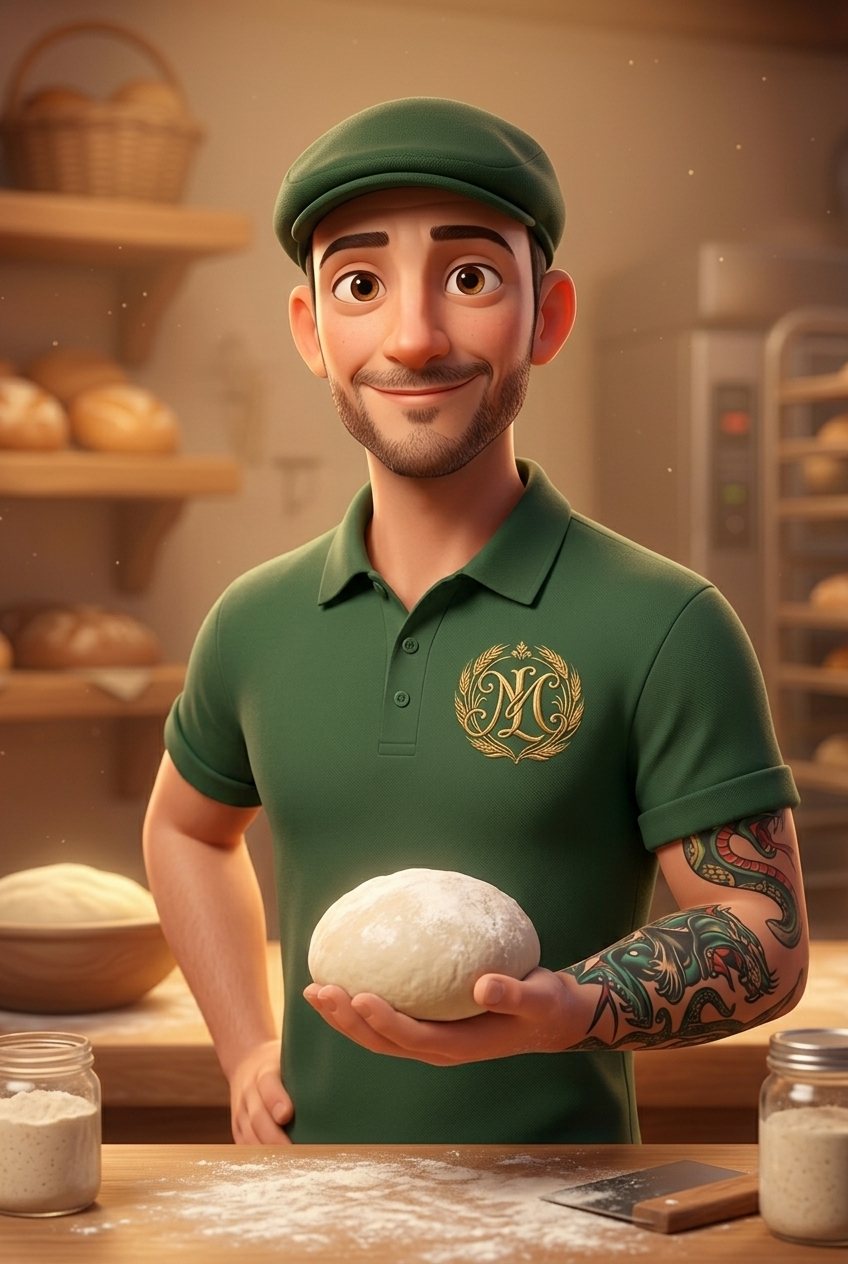
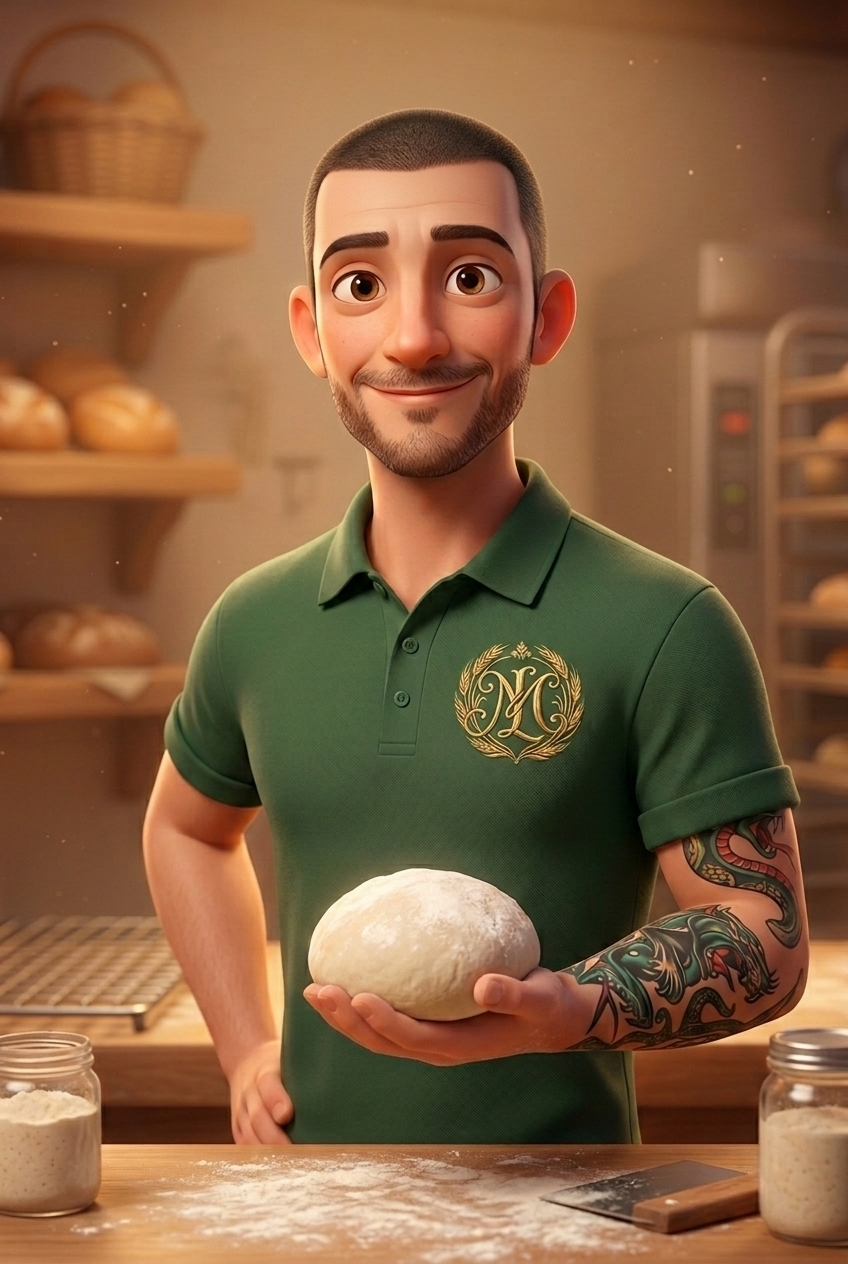
Fatto entrambe:
**Menu Ricette → vetrina a griglia** (2 per riga) con foto, raggruppata per categoria (Basi & Lieviti, Pane, ecc.). Via i chip e le fisarmoniche: resta solo la ricerca in alto. Ogni card ha la **strisciolina tricolore + bandierina del Paese d'origine**. ✅

**Avatar Home** rigenerato: **senza cappello** (capelli corti), col tuo **vero tatuaggio** (il drago marino verde) e la **Knolle** (palla d'impasto) in mano. ✅

Ho notato che alcune ricette delle **Basi & Lieviti** (Lievito Madre, LiCoLi, Poolish, Kochstück, Miglioratore) non hanno una foto, quindi in vetrina restano con il riquadro vuoto. Vuoi che generi delle **foto** anche per queste 5-6 basi così la vetrina è tutta piena?

⚠ Per la produzione **mikilab.de serve il Redeploy**.

Changed region(s): [[0.3066, 0.0617, 0.6745, 0.216], [0.0, 0.6479, 0.2453, 0.8331], [0.5519, 0.5245, 0.5825, 0.5862]]

diff --git a/frontend/src/components/RecipeList.jsx b/frontend/src/components/RecipeList.jsx
@@ -201,7 +201,7 @@ export default function RecipeList({ collectionName, heroImage, heroTitle, heroS
         ];
         const isMikilab = collectionName === "mikilab";
 
-        const Row = (r, i) => (
+        const Card = (r, i) => (
           <motion.button
             key={r.id}
             initial={{ opacity: 0, y: 6 }}
@@ -209,36 +209,35 @@ export default function RecipeList({ collectionName, heroImage, heroTitle, heroS
             transition={{ delay: Math.min(i * 0.015, 0.2) }}
             onClick={() => setViewing(r)}
             data-testid={`recipe-row-${r.id}`}
-            className="relative overflow-hidden w-full text-left bg-white dark:bg-[#232A31] border border-[#D7E1DB] dark:border-[#38424B] rounded-2xl p-4 shadow-sm active:scale-[0.99] hover:border-[#6E8CA0]/60 transition-all flex items-center gap-3"
+            className="relative overflow-hidden text-left bg-white dark:bg-[#232A31] border border-[#D7E1DB] dark:border-[#38424B] rounded-2xl shadow-sm active:scale-[0.98] hover:border-[#6E8CA0]/60 transition-all flex flex-col"
           >
+            {/* strisciolina tricolore del Paese d'origine */}
             {countryColors(r.origin) && (
-              <div aria-hidden className="absolute top-0 left-0 right-0 flex h-1.5">
+              <div aria-hidden className="absolute top-0 left-0 right-0 z-10 flex h-1.5">
                 {countryColors(r.origin).map((c, k) => <div key={k} className="flex-1" style={{ background: c }} />)}
               </div>
             )}
-            {r.image_url && (r.image_url.startsWith("http") || recipeCategory(r).key === "panettoni") && (
-              <img src={r.image_url} alt="" loading="lazy" onError={(e) => { e.currentTarget.style.display = "none"; }} className="w-14 h-14 rounded-xl object-cover shrink-0 border border-[#D7E1DB] dark:border-[#38424B]" />
-            )}
-            <div className="min-w-0 flex-1">
-              <h3 className="font-display text-lg font-semibold text-[#2B303B] dark:text-[#EAF0EC] leading-tight line-clamp-3">
-                {r.origin && flagEmoji(r.origin) && <span className="mr-1" title={countryName(r.origin)}>{flagEmoji(r.origin)}</span>}
+            {/* foto vetrina */}
+            <div className="relative w-full aspect-[4/3] bg-[#EAF0EC] dark:bg-[#1F252B]">
+              {r.image_url
+                ? <img src={r.image_url} alt="" loading="lazy" onError={(e) => { e.currentTarget.style.display = "none"; }} className="w-full h-full object-cover" />
+                : <div className="w-full h-full flex items-center justify-center"><ChefHat className="w-9 h-9 text-[#B34A26]/40" /></div>}
+              {r.origin && flagEmoji(r.origin) && (
+                <span title={countryName(r.origin)} className="absolute top-2.5 right-2 text-xl drop-shadow-md">{flagEmoji(r.origin)}</span>
+              )}
+              {r.locked && (
+                <span className="absolute bottom-2 right-2 bg-white/90 dark:bg-[#232A31]/90 rounded-full p-1.5 shadow">
+                  <Lock data-testid={`recipe-locked-${r.id}`} className="w-3.5 h-3.5 text-[#6E8CA0]" />
+                </span>
+              )}
+            </div>
+            {/* testo */}
+            <div className="p-3 min-w-0 flex-1">
+              <h3 className="font-display text-sm font-semibold text-[#2B303B] dark:text-[#EAF0EC] leading-tight line-clamp-2">
                 {rLoc(r, "name", lang)}
               </h3>
-              {rLoc(r, "real_name", lang) ? <p className="text-xs font-medium text-[#5E8B7E] truncate">{rLoc(r, "real_name", lang)}</p> : null}
-              {(() => {
-                const badges = recipeBadges(r);
-                return badges.length > 0 ? (
-                  <div className="flex flex-wrap items-center gap-1 mt-1.5" data-testid={`recipe-badges-${r.id}`}>
-                    {badges.slice(0, 5).map((b) => (
-                      <span key={b} title={badgeTitle(b, lang)} className={`text-[9px] font-bold px-1.5 py-0.5 rounded-md border ${badgeClass(b)}`}>{badgeLabel(b, lang)}</span>
-                    ))}
-                  </div>
-                ) : (r.flour_type ? <p className="text-xs text-[#7E8A93] truncate mt-0.5">{rLoc(r, "flour_type", lang)}</p> : null);
-              })()}
+              {rLoc(r, "real_name", lang) ? <p className="text-[11px] font-medium text-[#5E8B7E] truncate mt-0.5">{rLoc(r, "real_name", lang)}</p> : null}
             </div>
-            {r.locked
-              ? <Lock data-testid={`recipe-locked-${r.id}`} className="w-4 h-4 text-[#6E8CA0] shrink-0" />
-              : <MoreHorizontal className="w-5 h-5 text-[#AEB8BF] shrink-0" />}
           </motion.button>
         );
 
@@ -261,65 +260,27 @@ export default function RecipeList({ collectionName, heroImage, heroTitle, heroS
               )}
             </div>
 
-            {/* Filtri categoria */}
-            {isMikilab && (
-              <div className="flex flex-wrap gap-1.5 mb-4" data-testid="recipe-filters">
-                {[{ key: "all", label: triM("Tutte", "Alle", "All"), icon: "🍽" }, ...CATS].map((c) => (
-                  <button
-                    key={c.key}
-                    data-testid={`recipe-filter-${c.key}`}
-                    onClick={() => setCatFilter(c.key)}
-                    className={`text-xs font-semibold px-3 py-1.5 rounded-full border transition-all ${
-                      catFilter === c.key
-                        ? "bg-[#5E8B7E] text-white border-[#5E8B7E]"
-                        : "bg-white dark:bg-[#232A31] text-[#7E8A93] border-[#D7E1DB] dark:border-[#38424B]"
-                    }`}
-                  >
-                    <span className="mr-1">{c.icon}</span>{c.key === "all" ? c.label : t(c.label)}
-                  </button>
-                ))}
-              </div>
-            )}
-
             {filtered.length === 0 ? (
               <p className="text-center text-[#7E8A93] py-8 text-sm" data-testid="recipe-no-results">
                 {triM("Nessuna ricetta trovata.", "Kein Rezept gefunden.", "No recipe found.")}
               </p>
             ) : !isMikilab ? (
-              <div className="space-y-2.5">{filtered.map((r, i) => Row(r, i))}</div>
+              <div className="grid grid-cols-2 gap-3">{filtered.map((r, i) => Card(r, i))}</div>
             ) : (
-              <div className="space-y-2.5">
+              <div className="space-y-6">
                 {CATS.map((cat) => {
                   const items = filtered.filter((r) => recipeCategory(r).key === cat.key);
                   if (items.length === 0) return null;
-                  const open = q ? true : (openCats[cat.key] ?? true);
                   return (
-                    <div key={cat.key} className="border border-[#D7E1DB] dark:border-[#38424B] rounded-2xl overflow-hidden bg-white/40 dark:bg-[#232A31]/40">
-                      <button
-                        data-testid={`cat-accordion-${cat.key}`}
-                        onClick={() => setOpenCats((s) => ({ ...s, [cat.key]: !open }))}
-                        className="w-full flex items-center gap-2 px-4 py-3 text-left"
-                      >
+                    <div key={cat.key} data-testid={`cat-section-${cat.key}`}>
+                      <div className="flex items-center gap-2 mb-2.5 px-1">
                         <span className="text-lg">{cat.icon}</span>
                         <h2 className="font-display text-sm font-bold uppercase tracking-wide text-[#5E8B7E] flex-1">{t(cat.label)}</h2>
                         <span className="text-xs font-mono-data text-[#7E8A93]">{items.length}</span>
-                        <ChevronDown className={`w-4 h-4 text-[#7E8A93] transition-transform ${open ? "rotate-180" : ""}`} />
-                      </button>
-                      <AnimatePresence initial={false}>
-                        {open && (
-                          <motion.div
-                            initial={{ height: 0, opacity: 0 }}
-                            animate={{ height: "auto", opacity: 1 }}
-                            exit={{ height: 0, opacity: 0 }}
-                            transition={{ duration: 0.25 }}
-                            className="overflow-hidden"
-                          >
-                            <div className="px-2.5 pb-2.5 space-y-2.5">
-                              {items.map((r, i) => Row(r, i))}
-                            </div>
-                          </motion.div>
-                        )}
-                      </AnimatePresence>
+                      </div>
+                      <div className="grid grid-cols-2 gap-3">
+                        {items.map((r, i) => Card(r, i))}
+                      </div>
                     </div>
                   );
                 })}
